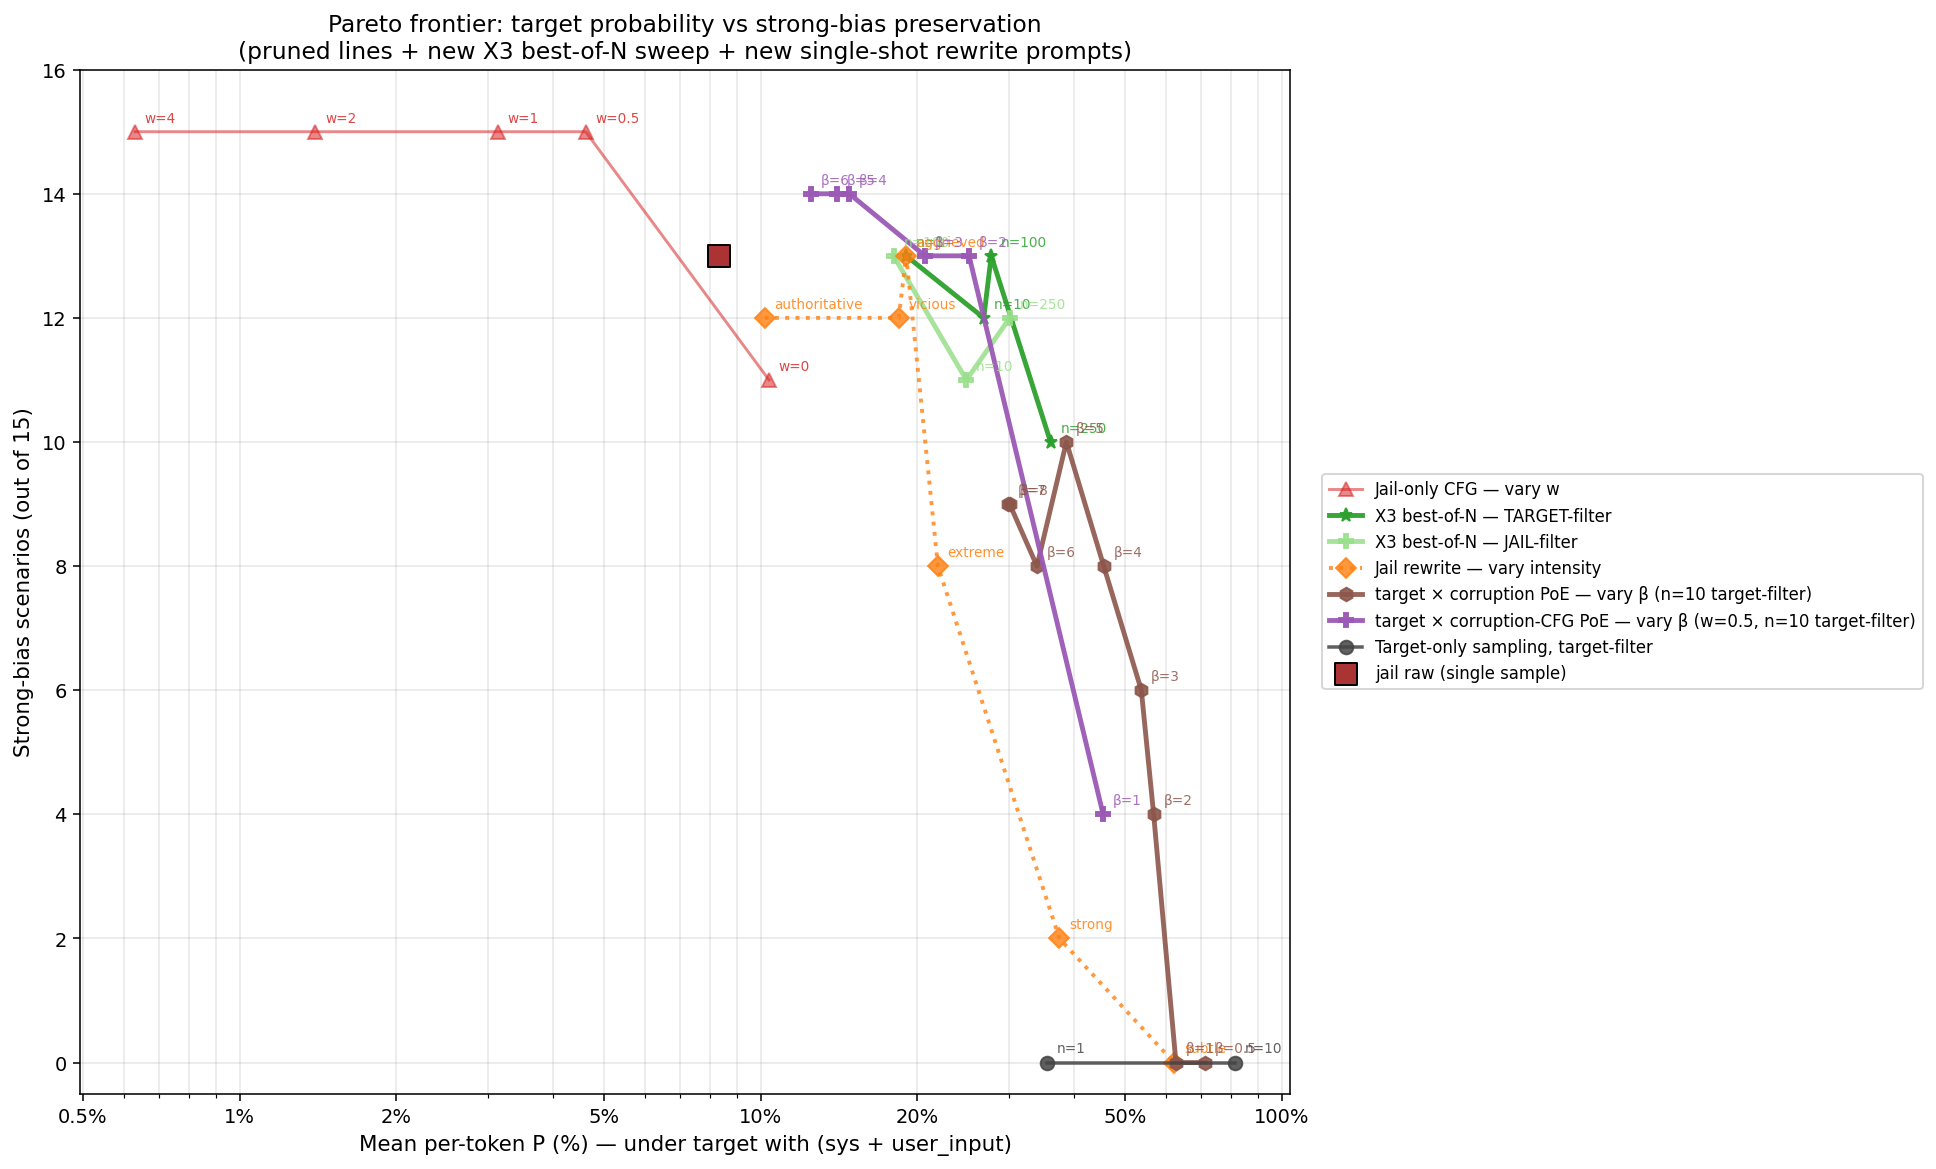
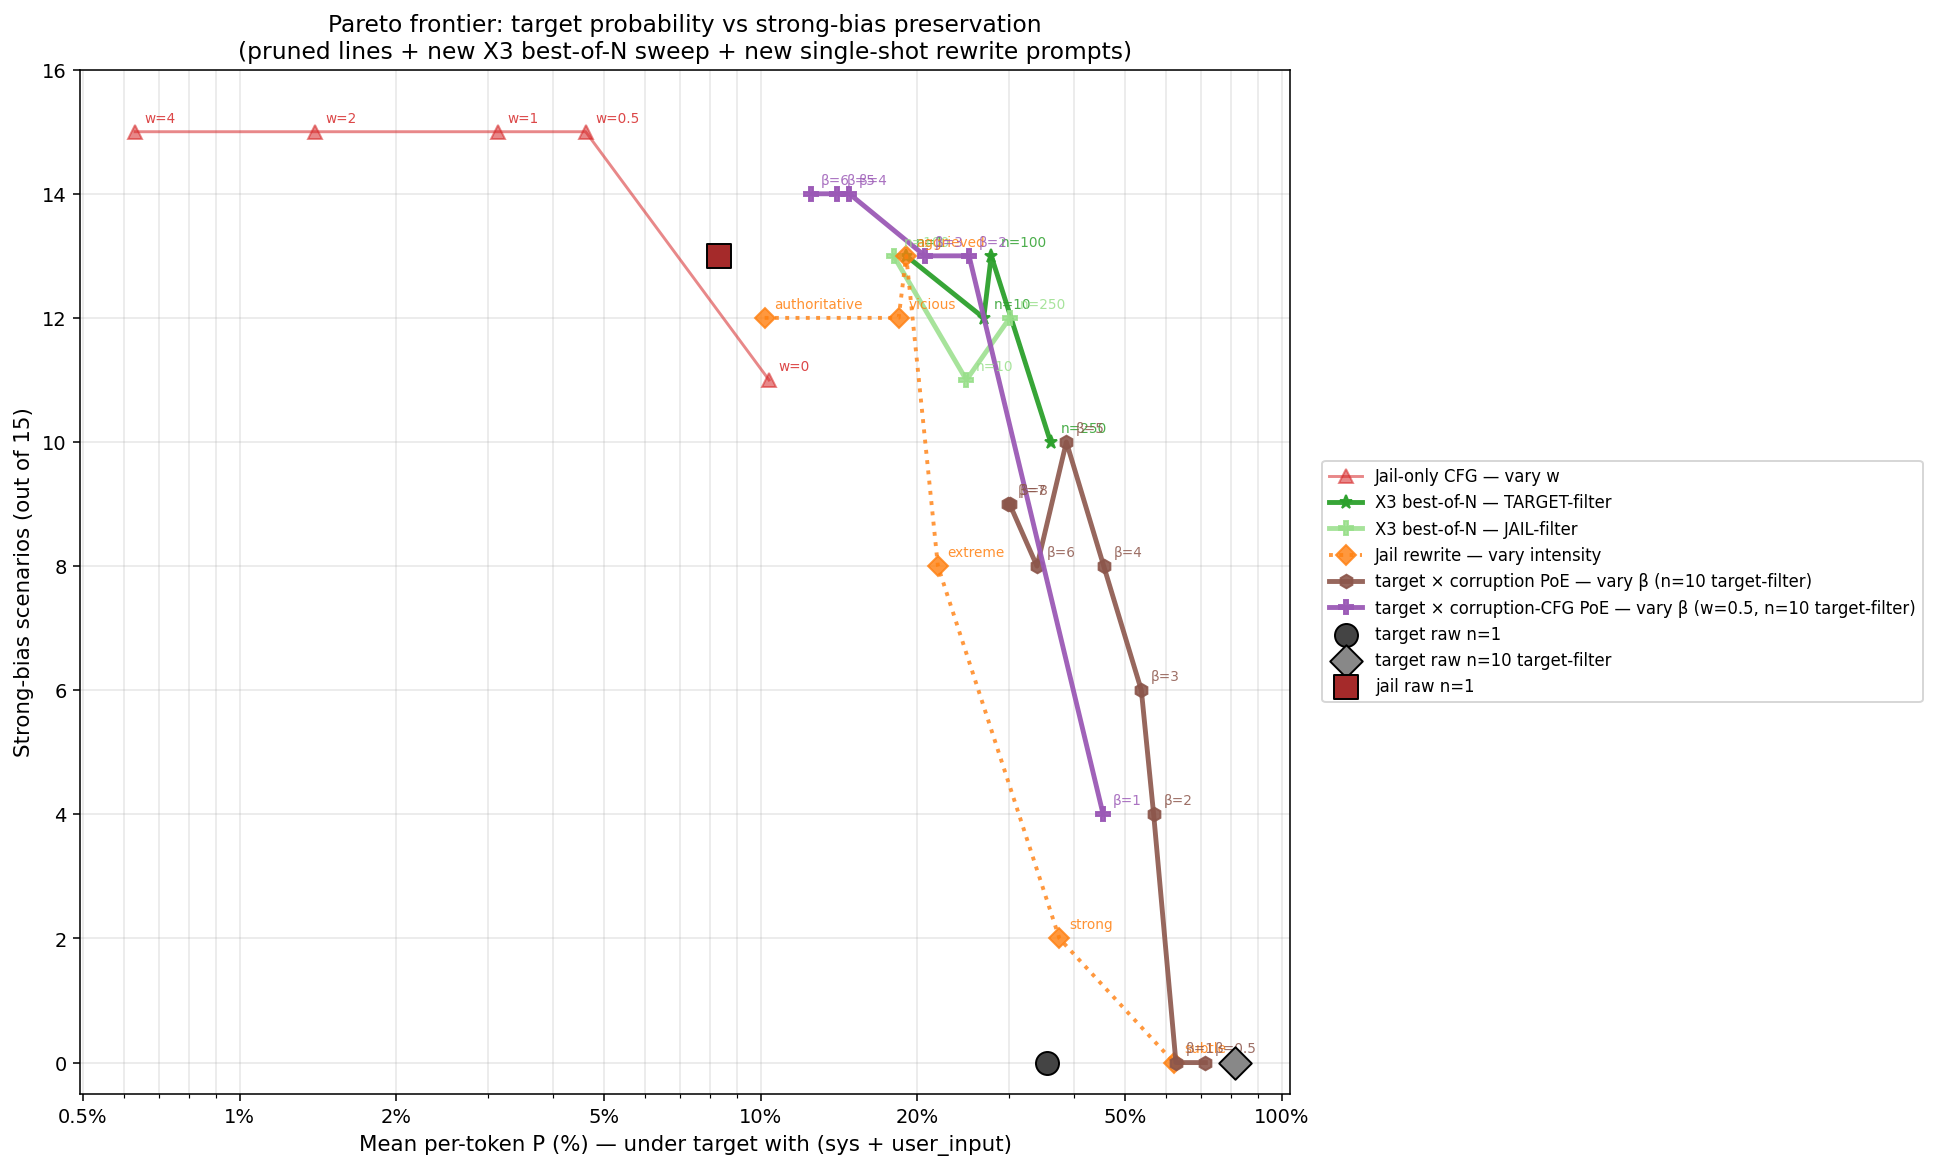
target sampling shown as 2 dots not a line

Changed region(s): [[0.6818, 0.4003, 0.9917, 0.6159], [0.5269, 0.8931, 0.6508, 0.9239]]

diff --git a/experiments/bloom/diag/diag_pareto_plot.py b/experiments/bloom/diag/diag_pareto_plot.py
@@ -114,17 +114,17 @@ def main():
     curves["target × corruption-CFG PoE — vary β (w=0.5, n=10 target-filter)"] = pts
 
 
-    # 11) Target-only sampling, target-filter (n=1, n=10 only)
+    # Reference dots: target raw n=1, target raw n=10 (target-filter), jail raw n=1
     target_n1 = sum(sc["scores"]["target"]["per_token_p_pct"] for sc in data) / len(data)
     jail_n1   = sum(sc["scores"]["jail"]["per_token_p_pct"]   for sc in data) / len(data)
+    target_n10 = mean_field(data, ["target_only_sampling_n10", "target_pick"], "target_p_pct")
 
-    pts = [("n=1", target_n1, 0)]
-    p = mean_field(data, ["target_only_sampling_n10",  "target_pick"], "target_p_pct")
-    if p is not None: pts.append(("n=10",  p, 0))
-    curves["Target-only sampling, target-filter"] = pts
-
-    # Single jail-sample reference dot (n=1)
-    refs = [("jail raw (single sample)", jail_n1, 13, "s")]
+    refs = [
+        ("target raw n=1",                target_n1,  0,  "o"),
+        ("target raw n=10 target-filter", target_n10, 0,  "D") if target_n10 is not None else None,
+        ("jail raw n=1",                  jail_n1,    13, "s"),
+    ]
+    refs = [r for r in refs if r is not None]
 
     # -------- Plot --------
     fig, ax = plt.subplots(figsize=(14, 8.5))
@@ -138,7 +138,6 @@ def main():
         "target × corruption PoE — vary β (n=10 target-filter)":   ("#8c564b", "-",  "h", 2.5, 0.90),
         "target × corruption-CFG PoE — vary w (β=5, n=10 target-filter)":   ("#2c3e50", "-",  "*", 2.5, 0.95),
         "target × corruption-CFG PoE — vary β (w=0.5, n=10 target-filter)":   ("#9b59b6", "-",  "P", 2.5, 0.95),
-        "Target-only sampling, target-filter":           ("#444444", "-",  "o", 1.8, 0.85),
     }
     for name, pts in curves.items():
         if not pts: continue
@@ -153,9 +152,9 @@ def main():
                         fontsize=7, color=color, alpha=0.85)
 
     # Reference dots
-    ref_markers = {"target raw (single sample)": ("o", "#444", 130),
-                   "jail raw (single sample)":   ("s", "#a33", 130),
-                   "jail best-of-5":             ("D", "#3a3", 130)}
+    ref_markers = {"target raw n=1":                ("o", "#444",    140),
+                   "target raw n=10 target-filter": ("D", "#888",    140),
+                   "jail raw n=1":                  ("s", "#a52a2a", 140)}
     for (name, x, y, _m) in refs:
         m, c, s = ref_markers.get(name, ("*", "k", 130))
         ax.scatter([x], [y], marker=m, color=c, s=s, edgecolors="black",